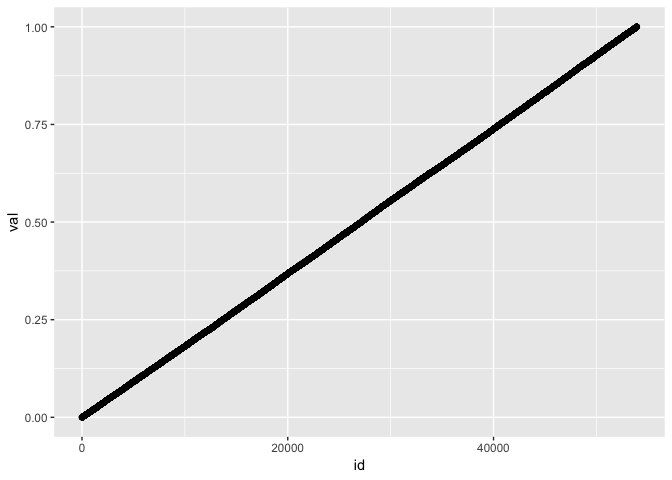
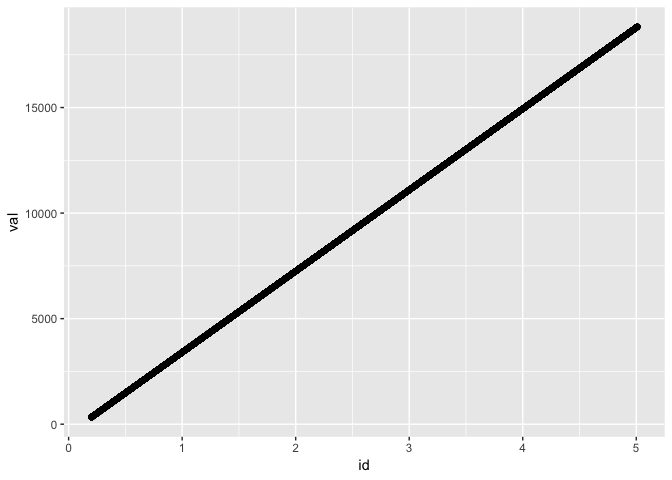
reported and fixed types

diff --git a/line-profile-report.md b/line-profile-report.md
@@ -6,7 +6,21 @@ Tim Mastny
 ``` r
 library(tidyr)
 library(forcats)
+library(dplyr)
+```
 
+    ## 
+    ## Attaching package: 'dplyr'
+
+    ## The following objects are masked from 'package:stats':
+    ## 
+    ##     filter, lag
+
+    ## The following objects are masked from 'package:base':
+    ## 
+    ##     intersect, setdiff, setequal, union
+
+``` r
 library(ggplot2)
 library(lattice)
 library(grid) 
@@ -53,115 +67,116 @@ line_point_bencher <- function(data, times = 5) {
 
 line_point_plotter <- function(data) {
   data %>%
-    summary() %>%
     separate(expr, c("plotter", "type"), sep = "_") %>%
     ggplot() +
     geom_line(aes(fct_reorder(plotter, mean), mean, color = type, group = type))
 }
 ```
 
-# “Straight” Line Plot
+# Plots
 
-This set of examples will look plots that a straight-ish. For example,
+We’ll compare making line plots with this artifical straight dataset and
+the `diamonds` dataset.
 
 ``` r
 n <- nrow(diamonds)
-dat <- function(x) { data.frame(id = 1:x, val = sort(runif(x))) }
+dat <- function(x) { 
+  data.frame(
+    id = seq(min(diamonds$carat), max(diamonds$carat), length.out = x), 
+    val = seq(min(diamonds$price), max(diamonds$price), length.out = x)
+  ) 
+}
 ggplot(dat(n), aes(id, val)) + geom_point()
 ```
 
 ![](line-profile-report_files/figure-gfm/unnamed-chunk-3-1.png)<!-- -->
 
-### Smaller Plot
-
-First, we will use 53940 points to plot, the number of points in the
-diamond dataset.
-
 ``` r
-plots <- line_point_bencher(dat(n))
-plots
+ggplot(diamonds, aes(carat, price)) + geom_point()
 ```
 
-    ## Unit: milliseconds
-    ##           expr        min         lq       mean     median         uq
-    ##       gg_point  955.60169  960.10763 1125.17344  976.54919  997.81180
-    ##        gg_line 1277.37230 1338.81342 1405.59149 1386.15056 1425.05862
-    ##     base_point  659.12658  703.90283  782.73172  714.00272  756.40881
-    ##      base_line   41.34096   41.63077   51.70979   44.23391   52.52717
-    ##  lattice_point  798.69353  829.01949  949.21946  884.19736 1085.03006
-    ##   lattice_line  122.88982  124.68733  150.31449  129.52496  164.15743
-    ##         max neval
-    ##  1735.79688     5
-    ##  1600.56256     5
-    ##  1080.21767     5
-    ##    78.81612     5
-    ##  1149.15685     5
-    ##   210.31290     5
+![](line-profile-report_files/figure-gfm/unnamed-chunk-4-1.png)<!-- -->
+
+### Benchmarking
 
 ``` r
-line_point_plotter(plots)
+straight_small <- line_point_bencher(dat(n)) %>%
+  summary() %>% 
+  mutate(plot = "small") 
 ```
-
-![](line-profile-report_files/figure-gfm/unnamed-chunk-5-1.png)<!-- -->
-
-### Larger Plot
 
 ``` r
-n <- 86400
-plots <- line_point_bencher(dat(n))
-plots
+straight_large <- line_point_bencher(dat(n * 2)) %>%
+  summary() %>%
+  mutate(plot = "large")
 ```
-
-    ## Unit: milliseconds
-    ##           expr        min         lq       mean     median         uq
-    ##       gg_point 1354.32326 1400.15816 1416.53312 1411.59363 1441.33522
-    ##        gg_line 2339.60328 2345.06496 2375.27860 2378.45826 2380.96884
-    ##     base_point 1013.67282 1014.59156 1028.20068 1016.85811 1026.04282
-    ##      base_line   49.34238   50.11752   52.24116   51.28954   54.58945
-    ##  lattice_point 1219.72859 1234.33703 1248.71904 1243.10479 1247.89119
-    ##   lattice_line  152.44533  156.49358  173.21860  161.13870  171.57044
-    ##         max neval
-    ##  1475.25535     5
-    ##  2432.29765     5
-    ##  1069.83809     5
-    ##    55.86691     5
-    ##  1298.53358     5
-    ##   224.44495     5
 
 ``` r
-line_point_plotter(plots)
+d <- data.frame(id = diamonds$carat, val = as.numeric(diamonds$price))
+diamond_plots <- line_point_bencher(d) %>% 
+  summary() %>%
+  mutate(plot = 'diamonds')
 ```
 
-![](line-profile-report_files/figure-gfm/unnamed-chunk-7-1.png)<!-- -->
+# Plots
 
-# Diamonds Plot
+``` r
+bind_rows(straight_large, straight_small, diamond_plots) %>%
+  mutate(plot = factor(plot, levels = c("diamonds", "small", "large"))) %>%
+  line_point_plotter() +
+  facet_wrap(~plot)
+```
 
-Now let’s use the actual diamond data-set:
+![](line-profile-report_files/figure-gfm/unnamed-chunk-8-1.png)<!-- -->
+
+# Integer Plots
+
+Before, we’ve been intentionally plotting doubles. What happens when we
+use integers?
+
+### “Straight” Line Integers
+
+``` r
+n <- nrow(diamonds)
+dat <- function(x) { 
+  data.frame(
+    id = 1:x, 
+    val = seq(min(diamonds$price), max(diamonds$price), length.out = x)
+  ) 
+}
+```
+
+``` r
+straight_small_ints <- line_point_bencher(dat(n)) %>%
+  summary() %>%
+  mutate(data = "int")
+
+straight_small %>%
+  mutate(data = "double") %>%
+  bind_rows(straight_small_ints) %>%
+  line_point_plotter() + 
+  facet_wrap(~data) + 
+  ylim(c(0, 1500)) 
+```
+
+![](line-profile-report_files/figure-gfm/unnamed-chunk-10-1.png)<!-- -->
+
+### Diamond Integers
 
 ``` r
 d <- data.frame(id = diamonds$carat, val = diamonds$price)
-plots <- line_point_bencher(d)
-plots
+diamond_plots_int <- line_point_bencher(d) %>%
+  summary() %>%
+  mutate(data = "int")
 ```
-
-    ## Unit: milliseconds
-    ##           expr       min        lq      mean    median        uq       max
-    ##       gg_point 935.04004 937.06510 972.41199 971.03675 994.24027 1024.6778
-    ##        gg_line 722.62502 762.66961 776.39035 768.17703 772.93910  855.5410
-    ##     base_point 634.11219 642.84831 652.57211 652.07935 658.06431  675.7564
-    ##      base_line  39.42502  43.54234  43.14345  43.76573  44.20875   44.7754
-    ##  lattice_point 809.75045 813.28855 816.13405 814.75620 815.86490  827.0101
-    ##   lattice_line 129.26945 130.19910 135.60444 132.49783 135.90373  150.1521
-    ##  neval
-    ##      5
-    ##      5
-    ##      5
-    ##      5
-    ##      5
-    ##      5
 
 ``` r
-line_point_plotter(plots)
+diamond_plots %>%
+  mutate(data = "double") %>%
+  bind_rows(diamond_plots_int) %>%
+  line_point_plotter() + 
+  facet_wrap(~data) + 
+  ylim(c(0, 1500))
 ```
 
-![](line-profile-report_files/figure-gfm/unnamed-chunk-9-1.png)<!-- -->
+![](line-profile-report_files/figure-gfm/unnamed-chunk-12-1.png)<!-- -->
